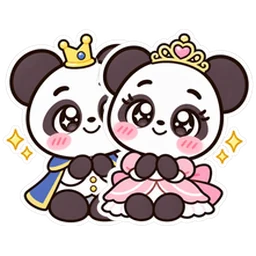
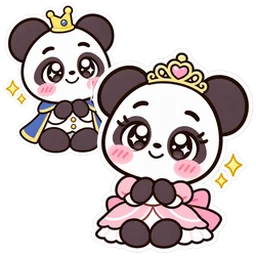
究極の二択：キャラ図鑑を作った・王子・姫の絵を姫が主役の1枚に
Claude-Session: https://claude.ai/code/session_01VNhb2hkhfox6azdXRsnDTE

diff --git a/nitaku/index.html b/nitaku/index.html
@@ -544,6 +544,34 @@ html[data-tone="f"] .tn-f,html[data-tone="s"] .tn-s{display:revert}
 .kc-tabs button[aria-selected="true"]{background:var(--tc);color:#fff;border-color:#1E1E2A}
 .kc-cards{margin-top:10px}
 .kc-save{display:block;margin:8px auto 0}
+/* キャラ図鑑 */
+.kc-zk{display:block;margin:10px auto 0}
+.zk-open{display:flex;align-items:center;gap:12px;width:100%;min-height:72px;margin:6px 0 10px;padding:8px 14px;border:2.5px solid #1E1E2A;border-radius:16px;background:#fff;box-shadow:4px 4px 0 #F2C94C;font:inherit;color:#1E1E2A;text-align:left;cursor:pointer}
+.zk-open img{flex:none;width:56px;height:56px;object-fit:contain}
+.zk-open span{flex:1;min-width:0;display:flex;flex-direction:column}
+.zk-open b{font-family:'Mochiy Pop One',sans-serif;font-weight:400;font-size:18px}
+.zk-open small{font-size:13px;color:#5A546A}
+.zk-open i{font-style:normal;font-size:26px;font-weight:900}
+.zk-h{margin:4px 0 10px}
+.zk-tabs{display:grid;grid-template-columns:1fr 1fr;gap:8px}
+.zk-tabs button{min-height:44px;border:2.5px solid #1E1E2A;border-radius:999px;background:#fff;color:#1E1E2A;font:inherit;font-weight:900;font-size:15px;white-space:nowrap}
+.zk-tabs button[aria-selected="true"]{background:#FF3D7F}
+.zk-tabs button[data-zt="normal"][aria-selected="true"]{background:#DDF5EC;color:#17634A}
+.zk-lead{margin:12px 0 0;font-size:14px;color:#5A546A}
+.zk-grid{display:grid;grid-template-columns:repeat(2,1fr);gap:10px;margin:12px 0 16px}
+@media (min-width:600px){ .zk-grid{grid-template-columns:repeat(3,1fr)} }
+.zk-c{display:flex;flex-direction:column;align-items:center;gap:3px;min-width:0;padding:10px 6px 12px;border:2px solid #1E1E2A;border-radius:14px;background:#fff;box-shadow:3px 3px 0 #F2C94C;font:inherit;color:#1E1E2A;text-align:center;cursor:pointer}
+.zk-c img{width:120px;height:120px;max-width:100%;object-fit:contain}
+.zk-c b{font-family:'Mochiy Pop One',sans-serif;font-weight:400;font-size:16px;white-space:nowrap}
+.zk-c span{font-size:13px;line-height:1.5;color:#5A546A}
+.zk-noimg{display:flex;align-items:center;justify-content:center;width:100px;height:100px;border:2.5px solid #1E1E2A;border-radius:50%;background:#FFE3EC;font-weight:900}
+.zk-dpic{display:flex;justify-content:center}
+.zk-dpic img{width:200px;height:200px;max-width:100%;object-fit:contain}
+.kc.zk-d .zk-dnm{margin:4px 0 2px;text-align:center;font-family:'Mochiy Pop One',sans-serif;font-weight:400;font-size:26px;line-height:1.3}
+.zk-dsay{text-align:center}
+.zk-kiki{margin:0;font-size:15px}
+.zk-note{margin:12px 0 0;font-size:13px;color:#5A546A}
+.zk-go{margin-top:14px}
 .kcd{max-width:380px;margin:0 auto;box-sizing:border-box;color:#1E1E2A}
 .kc-label{background:#fff;border:3px solid #1E1E2A;border-radius:6px;padding:12px 14px}
 .kc-label h3,.kc-karte h3,.kc-tsuchi h3{margin:0}
@@ -870,6 +898,7 @@ body.rdy-on #gres-body{padding-bottom:230px}
       <li><a href="/minna/">みんなで盛り上がる究極の二択 40選</a></li>
     </ul>
   </section>
+  <button type="button" class="zk-open" data-zukan="love"><span><b>キャラ図鑑</b><small>恋のキャラ・ふだんのキャラ 全20体</small></span><i aria-hidden="true">›</i></button>
   <button class="linkb" id="about-open">この診断について（％の考え方）</button>
   <!-- サイト名と作った人の表示（薄く小さく。鑑定者本人の指示 2026-11-12） -->
   <p class="credit" data-nocg>究極の二択 本音バレ診断<br>Produced by Mizuki Nico</p>
@@ -958,6 +987,12 @@ body.rdy-on #gres-body{padding-bottom:230px}
     <h3>ご注意</h3>
     <p>この診断は、心理学の考え方を参考にした遊びです。性格や相性を決めつけるものではありません。答えた内容は、みんなの回答％を数えるために「どちらを選んだか」だけを送り、名前は送りません。友だちと遊ぶときは、名前と答えが同じ部屋の人にだけ見えます。</p>
   </div>
+</section>
+
+<!-- キャラ図鑑（鑑定者本人 2026-11-16「図鑑も作って」） -->
+<section class="scr" id="s-zukan">
+  <div class="nav"><button class="navb" data-nav="back">← もどる</button><span class="navr"><button class="navb" data-nav="top">TOP</button></span></div>
+  <div id="zk-body"></div>
 </section>
 
 <!-- 部屋に参加する -->
@@ -2074,7 +2109,8 @@ function charaHTML(qs, ans, label, cls, fold, opt){
       (r.pref.length ? '<div class="kc-row"><b>好きになりやすい人</b>'+r.pref.map(pill).join('')+'</div>' : '')+
     '</div>'+
     '<div class="kc-tone"><span>言い方</span>'+[['y','やさしめ'],['f','辛口'],['s','激辛']].map(function(x){ return '<button type="button" data-tone="'+x[0]+'" aria-pressed="'+(toneGet()===x[0])+'">'+x[1]+'</button>'; }).join('')+'</div>'+
-    '<div class="kc-aru"><h4>'+esc(c.name)+'のあるある</h4><ul>'+tnList(c,0,3)+'</ul></div>';
+    '<div class="kc-aru"><h4>'+esc(c.name)+'のあるある</h4><ul>'+tnList(c,0,3)+'</ul></div>'+
+    '<button type="button" class="linkb kc-zk" data-zukan="'+MK+'">ほかのキャラも見る（キャラ図鑑）</button>';
   // 4枚のカード
   var top=kt.words.slice(0,6), hito=kt.hito.slice(0,3), hx='「'+(hito[0]||c.name)+'」';
   var A='<div class="kcd kc-label"><h3>'+(NM?'ふだんの':'恋の')+'成分表示</h3><p class="lb-nm">名称：'+esc(who)+'　　内容量：'+(NM?'1日分':'恋1回分')+'</p>'+
@@ -2180,11 +2216,50 @@ function goTop(ask){
   var st=store('nitaku_room'); if(st && !st.left){ st.left=true; store('nitaku_room', st); }
   updatePoolNote(); show('s-home'); roomResume(false);
 }
+/* ───── キャラ図鑑：恋のキャラ10・ふだんのキャラ10を並べ、押すとくわしく（鑑定者本人 2026-11-16） ───── */
+var ZK={ tab:'love', id:null, from:'s-home' };
+function openZukan(tab, id){ if(curScr()!=='s-zukan') ZK.from=curScr(); ZK.tab=tab||ZK.tab; ZK.id=id||null; renderZukan(); show('s-zukan'); }
+function zkPic(c, sz){ return CHARA_IMG[c.id] ? '<img src="'+CHARA_IMG[c.id]+'" alt="" width="'+sz+'" height="'+sz+'" loading="lazy">' : '<span class="zk-noimg">'+esc(c.name)+'</span>'; }
+function renderZukan(){
+  var NM=ZK.tab==='normal', D=NM?CHN:CH; if(!D) return;
+  var tabs='<div class="zk-tabs" role="tablist">'+[['love','恋のキャラ'],['normal','ふだんのキャラ']].map(function(x){ return '<button type="button" data-nocg data-zt="'+x[0]+'" aria-selected="'+(ZK.tab===x[0])+'">'+x[1]+'</button>'; }).join('')+'</div>';
+  var h='<h2 class="zk-h">キャラ図鑑</h2>'+tabs;
+  var c=ZK.id && D.list.filter(function(x){ return x.id===ZK.id; })[0];
+  if(c){
+    var li=function(a){ return a.map(function(s){ return '<li>'+esc(s)+'</li>'; }).join(''); };
+    h+='<div class="card kc zk-d'+(NM?' kc-n':'')+'"><div class="zk-dpic">'+zkPic(c,200)+'</div>'+
+      '<p class="zk-dnm">'+esc(c.name)+'</p><p class="kc-say zk-dsay">'+esc(c.say)+'</p><p class="kc-desc">'+esc(c.desc)+'</p>'+
+      '<div class="kc-tone"><span>言い方</span>'+[['y','やさしめ'],['f','辛口'],['s','激辛']].map(function(x){ return '<button type="button" data-tone="'+x[0]+'" aria-pressed="'+(toneGet()===x[0])+'">'+x[1]+'</button>'; }).join('')+'</div>'+
+      '<div class="kc-aru"><h4>'+esc(c.name)+'のあるある</h4><ul>'+tnList(c,0,3)+'</ul></div>'+
+      '<div class="kc-aru"><h4>よろこぶこと</h4><ul>'+li(c.yoro)+'</ul></div>'+
+      '<div class="kc-aru"><h4>こうすると、すねます</h4><ul>'+li(c.sune)+'</ul></div>'+
+      '<div class="kc-aru"><h4>相性のいいキャラ</h4><p class="zk-kiki">'+c.kiki.map(esc).join('・')+'</p></div>'+
+      '<p class="zk-note">診断書・通知表などのカードは、診断した人だけに出ます。</p>'+
+      '<button type="button" class="big zk-go" data-zgo="'+ZK.tab+'">自分のキャラを診断する<small class="bsub">'+(NM?'ふつう編':'恋愛編')+'で遊ぶ（15問・約3分）</small></button>'+
+      '<button type="button" class="linkb" data-zback>キャラ図鑑の一覧にもどる</button></div>';
+  } else {
+    h+='<p class="zk-lead">'+(NM?'ふつう編で遊ぶと、あなたの「ふだんのキャラ」がわかります。':'恋愛編・本能モードで遊ぶと、あなたの「恋のキャラ」がわかります。')+'押すと、くわしく見られます。</p>'+
+      '<div class="zk-grid">'+D.list.map(function(x){ return '<button type="button" class="zk-c" data-zid="'+x.id+'">'+zkPic(x,120)+'<b>'+esc(x.name)+'</b><span>'+esc(x.say)+'</span></button>'; }).join('')+'</div>'+
+      '<button type="button" class="big zk-go" data-zgo="'+ZK.tab+'">自分のキャラを診断する<small class="bsub">'+(NM?'ふつう編':'恋愛編')+'で遊ぶ（15問・約3分）</small></button>';
+  }
+  $('zk-body').innerHTML=h; toneApply(toneGet()); window.scrollTo(0,0);
+}
+document.addEventListener('click', function(e){
+  var t=e.target.closest && e.target.closest('[data-zukan],[data-zt],[data-zid],[data-zgo],[data-zback]'); if(!t) return;
+  if(t.hasAttribute('data-zukan')){ openZukan(t.getAttribute('data-zukan')==='normal'?'normal':'love'); return; }
+  if(t.hasAttribute('data-zt')){ ZK.tab=t.getAttribute('data-zt'); ZK.id=null; renderZukan(); return; }
+  if(t.hasAttribute('data-zid')){ ZK.id=t.getAttribute('data-zid'); renderZukan(); return; }
+  if(t.hasAttribute('data-zback')){ ZK.id=null; renderZukan(); return; }
+  if(t.hasAttribute('data-zgo')){ ZK.id=null; leaveRoom(); setMode(t.getAttribute('data-zgo')); show('s-home'); var w=$('go-solo'); if(w) setTimeout(function(){ try{ w.scrollIntoView({block:'center'}); }catch(x){} },50); }
+});
+/* #zukan で開いたとき（シェア・検索から） */
+(function(){ if(location.hash==='#zukan'){ try{ history.replaceState(null,'',location.href.split('#')[0]); }catch(e){} setTimeout(function(){ openZukan('love'); },0); } })();
 function openAbout(){ openAbout.from=curScr(); show('s-about'); }
 document.addEventListener('click', function(e){ var t=e.target.closest && e.target.closest('[data-about],#about-open'); if(t) openAbout(); });
 function goBack(){
   var c=curScr(), n=S.players.length;
   if(c==='s-about'){ show(openAbout.from||'s-home'); return; }
+  if(c==='s-zukan'){ if(ZK.id){ ZK.id=null; renderZukan(); return; } show(ZK.from||'s-home'); return; }
   if(c==='s-setup' || c==='s-join' || c==='s-post' || c==='s-review' || c==='s-res' || c==='s-gres'){ goTop(false); return; }
   if(S.room){ goTop(true); return; }
   if(S.honPlay && c==='s-q'){ goTop(true); return; }

diff --git a/CLAUDE.md b/CLAUDE.md
@@ -112,7 +112,8 @@
 - **本能モードのみんなの結果のひとこと**（鑑定者本人の指摘 2026-11-15「みんな本能で生きてるとか直感で生きてるだと全然面白くない」）：ランキングとひとりずつの本能の下の言葉は、全員同じ札（本能タイプ（直感で生きてる））をやめ、その人のデータから1人1つずつちがう言葉（`honSay`：自分の気持ちに、いちばん正直な人／最速0.6秒。自分の「好き」がはっきりしてる人／恋の問題だけ0.4秒速い／時間切れ1問。そこで本能がフリーズ／どの問題も同じペース。ブレない／1位まで、あと0.3秒 など。同じ言葉は2人に出さない。速い人は「自分の気持ち・好みをわかっている人」としてほめる言い方にする＝鑑定者本人 2026-11-15「自分の意見や意志が明確で自分を知ってるような言葉に」）。ひとりで遊んだときの札も5段階に（読む前に押してる疑惑〜3秒をぜんぶ使う慎重派）。「みんなの答え」の名前の札が二重の輪に見えていた（文節で改行するしくみが札の中に入れた span にも札の見た目が付いていた）ので、札の決まりを `.aq-n>span` にした。
 - **恋愛編の「あなたの中にあることば」**（鑑定者本人の考え 2026-11-15「称号ではなく、答えから連想される内面のワードを見せたい」「みんな自分のことも相手のことも知りたい」→見本 https://claude.ai/artifact/YHo39Rmnh9xy5LcvRDyCj7 で「この形でOK」、一覧 https://claude.ai/artifact/434K1fmW6QYqpkc5YQsdPC で「OK」）：恋愛編の161問の答え1つずつに、ことばを1〜3個とひとことワードを0〜1個付けた（`nitaku/kotoba-love.js`＝`KOTOBA_LOVE`・`KOTOBA_THEMES`〈6つのテーマ・44語〉・`KOTOBA_HITO`〈20語〉。答えの文は questions.js と同じ文で引くので、問題の文を変えたらここも直す）。結果では選んだ答えのことばを集め、よく付くことばほど軽く数え（付いた回数の平方根で割る）、反対の意味のことばは強く出たほうだけ（`KOTOBA_OPP`。「重め」と「自分の時間もほしい」「ほうっておいてほしい」も＝鑑定者本人 2026-11-15「足して」。本番の3人の部屋で見つけた「しっかり者×自由人」「さっぱり系×かまってほしい・甘えたい」「追いかけられたい×自分から話しかける」「ハプニングも楽しむ×いつものが安心」も＝鑑定者本人 2026-11-16「お願い、足して」。本能モードのひとことワードは恋愛・ふだんの両方の組み合わせで確かめ、「ふだんのあなた」からは恋愛のことばと同じ・反対の意味のことばを外す。「現実派×夢見がち」も足した）にして、テーマごとに3つまで・全部で13個まで出す（`kotobaOf`・`kotobaHTML`）。いちばん上に「ひとことで言うと」（ひとことワード3つまで。ほかのことばと同じ大きさ＝鑑定者本人「大きくなくて良い」）、その下にテーマごとの色の札（恋のはじまり方＝ピンク・してほしいこと＝青・伝え方＝オレンジ・過ごし方＝みどり・大事にしていること＝むらさき・心の奥＝グレー。札の中では改行しない）。絵文字・飾り文字・「○問から」の数・もとの答えのくり返しは出さない（鑑定者本人の指示）。ひとりの結果はいちばん上、みんなの結果は1人ずつのカード（人ごとに地の色を交互に）で、2人に共通することば・くらべは出さない（鑑定者本人「共通することばではなく個々の個性やイメージを」）。**ふつう編にも入れた**（鑑定者本人の指示 2026-11-15「ふつう編にもことばを入れて」→一覧 https://claude.ai/artifact/MG4mZaBiRdsiofFG7TFNNb で「OK」）：135問の答えにことばを付けた `nitaku/kotoba-normal.js`（`KOTOBA_NORMAL`・`KOTOBA_THEMES_N`〈ものごとの決め方・お金と時間の使い方・人とのつきあい方・好きな過ごし方・大事にしていること・心の奥にあるもの＝43語〉・`KOTOBA_HITO_N`〈20語〉）。出し方は恋愛編と同じ（`KOTOBA[mode]`・`KOTOBA_OPP[mode]`。説明の一文は「答えから見えた、あなたらしさです。」）。**本能モードにも入れた**（鑑定者本人の指示 2026-11-16「本能モードの結果に入れて」→一覧 https://claude.ai/artifact/8qMvgUArmgowTXjnKj9C5A で「OK」）：223問の答えにことばを付けた `nitaku/kotoba-hon.js`（`KOTOBA_HON.love`＝恋愛編のことば・`KOTOBA_HON.normal`＝ふつう編のことば。新しいことばは作らない）。結果は1つのカードで、恋愛の問題のことばを恋愛編のテーマごとに、ふつうの問題のことばを「ふだんのあなた」の1行（茶色の札・5個まで）に出す（`kotobaHonHTML`・`KOTOBA.honL`・`KOTOBA.honN`）。説明の一文は「考える前に選んだ答えから見えた、あなたの本音です。」。1秒以内に選んだ答えは2倍に数え、時間切れは数えない。ひとりの結果はいちばん上、みんなの結果は1人ずつのカード。テーマのことばと同じことば（負けずぎらい・現実派など、ひとことワードとテーマの両方にあることば）は「ひとことで言うと」に出さない（本番で同じことばが2回出ていたため 2026-11-16。恋愛編・ふつう編も同じ）。
 - **両面あることば**（鑑定者本人の指示 2026-11-16「両面ある　のような言葉があってもいいかも」→見本 https://claude.ai/artifact/86bdkuYthfbBqjLs58R32W で「①も②も入れて」）：反対の意味の組み合わせ（`KOTOBA_OPP`）の両方が2問以上で出て、弱いほうが強いほうの半分以上なら、片方を捨てずに「両面あるところ」の欄に2色の札（ピンク｜青）と一文で出す（「しっかり者｜甘えんぼう」＝しっかり者なのに、好きな人には甘えんぼう。1人2つまで。文は `KOTOBA_BOTH`＝恋愛37・ふつう40。`kotobaBothHTML`）。両面の札のことばは、ほかの札・ひとことワードに出さず、食いちがうことばも出さない。恋愛編・ふつう編・本能モードのひとり・みんなの結果すべて。出る割合は恋愛約3割・ふつう約2割・本能約4割。
-- **恋のキャラと結果カード**（鑑定者本人の指示 2026-11-16「小悪魔　天使　とか　赤ちゃんとか」「キャラ名も出してOK」「マージ、ぜんぶおすすめで」「A・C・E・F全部、辛口は切りかえボタンで」。見本 https://claude.ai/artifact/86bdkuYthfbBqjLs58R32W ・ 問題とキャラ https://claude.ai/artifact/AzRHPFe2CYFhdRjcNVsJAU ・ カード https://claude.ai/artifact/SMYs13WcCKMXUWXxp8CgJK）：恋愛編のひとり・みんなの結果に「○○の恋のキャラ」を出す（`nitaku/chara-love.js`＝`CHARA_LOVE`・`charaOf`・`charaHTML`）。キャラは10＝小悪魔（駆け引きを楽しむ）・天使・赤ちゃん・王子・姫・恋する乙女・クール系（前の案の「キリリ」）・しっかり者・柔軟派・自由人・ハンター。決め方は、答えのことば（kotoba-love.js）と4つの％と、キャラがわかる問題の印（`CHARA_LOVE.q`。答えの文で引く）を足した点のいちばん高いキャラ（でたらめに答えた1500人でどのキャラも約7〜14%になるよう `b` で調整）。2番目が近ければ「もう1つの顔」、「動物でいうと」（犬系・猫系・小動物系・ふわふわ系）の1行、キャラがわかる問題に答えていれば「好きになりやすい人」（年上／年下・かわいい系／かっこいい系）。その下に「言い方：やさしめ／辛口／激辛」の切りかえ（`nitaku_tone`。最初はやさしめ。`html[data-tone]` で文を出し分ける）、「○○のあるある」3つ、「恋のカード」4枚のタブ＝診断書（恋の病名・症状・原因・処方・医師より）・通知表（駆け引き・甘え上手・ロマン・ドキドキ好き・素直さ・連絡のマメさを5段階＋先生のひとこと）・成分表示（4つの％・うち○○・原材料名・注意）・取扱説明書（よろこぶこと・すねます・注意・相性のいい機種）。「このカードを画像で保存」。みんなの結果では人ごとのカードの中にたたむ。あるある・症状・注意は同じ文を2回出さない（`tone`・`sym`・`chui` を別の文にした）。文は全部こちらの言葉（ほかの診断の文は写さない。鑑定者本人が見せた MBTI・恋愛免許証の画像は形の参考だけ）。**キャラの絵**（鑑定者本人が ChatGPT で作るパンダのキャラ。2026-11-16 に小悪魔・天使・赤ちゃん・恋する乙女・クール系・しっかり者・柔軟派・自由人・ハンター〈ハートの弓矢＝ふつう編の冒険家と見た目をかぶらせない〉・王子・姫〈1つのキャラのまま2人を少し重ねて並べた1枚＝鑑定者本人 2026-11-16「二つ並べて一つのキャラで良い」〉）：絵がある分だけ、キャラの名前の上に出す（104px・名前はその下の札。`CHARA_IMG`＝キャラのid→`img/chara-<id>.webp`〈256px・透明な背景〉）。絵がないキャラは今までどおり名前の丸。診断書のはんこは「恋のクリニック」（ふつう編は「ふだんのクリニック」。前の「病院」はやめた＝鑑定者本人 2026-11-16）。カードのタブは色分け（診断書＝赤・通知表＝みどり・成分表示＝ピンク・取扱説明書＝青。選んでいるタブはその色でぬる。`data-nocg`。鑑定者本人 2026-11-16「ボタンの色分けしたい」）。パスポート・相性証明書の案はやめた（鑑定者本人 2026-11-16「Ｂはなし」「Ｄも不要」）。**キャラがわかる問題を33問足した**（恋愛編のイージー。鑑定者本人の直し：声の高さ→「じっと見つめられたら？照れて目をそらす／じっと見つめ返す」・「半日だけ別行動の時間がほしい」・「くわしく返す／ひとことだけ返す」・「好きな人にほめられたら？『ありがとう』と照れる／『あなたも素敵だよ』と返す」を足した）。今の「年上の恋人／年下の恋人」は「頼れる年上に、甘やかされる／かわいい年下に、頼られる」に入れかえた＝恋愛編193問（このあとハードに4問足して197問）。点検は幅360・390・430で、10キャラ×動物×言い方3つ×カード4枚の泣き別れ・はみ出し0。**本能モードにも出す**（鑑定者本人 2026-11-16「両方の見本を作って」→見本 https://claude.ai/artifact/TAcnLCZP5ZHPV1Z7mhGh36 で「おすすめで」＝A 恋のキャラだけ）：本能モードのひとり・みんなの結果のいちばん上に「○○の本能の恋のキャラ」と「考える前に選んだ恋の答えから決めました」。恋の問題（14問）のことば（`KOTOBA.honL`）から決め、1秒以内に選んだ答えは2倍・時間切れは数えない（`charaOf(qs,ans,{hon:true,times})`）。本能モードの問題には％の点がないので、成分表示・通知表の％は、ことばの数から出す（キャラの決め方には使わない）。出やすさは `CHARA_LOVE.honB` で本能モード用に調整（でたらめに答えた1500人でどのキャラも約7〜13%）。ふだんのキャラ（案B）は出さない。**どの難しさで遊んでも同じくらい決まるように**（鑑定者本人 2026-11-16「イージーだけなの？」「みんなハード選ぶ人が多い」「モード何系なしが良い」）：キャラがわかる問題の印（`CHARA_LOVE.q`）を、イージーの33問だけでなく、ノーマル・ハードの今ある問題にも付けた（108問ぶん。1回15問で答えに出る印は、どの難しさでも約6問）。でたらめに答えた1000人で、イージー・ノーマル・ハードどれもキャラが約5〜17%ずつ。ハードにも「好きになりやすい人」がわかる問題を4問足した（鑑定者本人 2026-11-16「ハードにも足してマージ」：10歳年上で頼れる・口うるさい／10歳年下でかわいい・頼りない、見た目かっこいい・中身子どもっぽい／見た目かわいい・中身クールで冷たい、年上に一生子ども扱いされる／年下を一生世話し続ける、とびきりかわいい・いつも守ってあげないといけない／とびきりかっこいい・いつも置いて先に行く）＝恋愛編197問（このあと鑑定者本人が考えた5問を足して202問：いつも家まで迎えに来てくれる人／待ち合わせ場所で合流する人・バイバイがあっさりな人／時間がかかる人・映画館で見るデート／部屋で見るデート〈以上イージー〉・付き合って半年で結婚。でも、まだ知らないところだらけ／5年付き合ってから結婚。でも、ときめきは少なめ・東京の小さい部屋／地方の広い部屋〈以上ノーマル〉。鑑定者本人 2026-11-16「追加したい」「④⑤は恋愛編に足して」。本能モードの「結婚は早め／ゆっくり」「駅で待ち合わせ／家まで迎えに行く」「映画館で見る／家で見る」・ふつう編の「都会のせまい部屋／田舎の広い家」と同じテーマだが、今ある問題は外していない）。「好きになりやすい人」が出る割合は、イージー約3割・ノーマル約5割・ハード約4割。
+- **恋のキャラと結果カード**（鑑定者本人の指示 2026-11-16「小悪魔　天使　とか　赤ちゃんとか」「キャラ名も出してOK」「マージ、ぜんぶおすすめで」「A・C・E・F全部、辛口は切りかえボタンで」。見本 https://claude.ai/artifact/86bdkuYthfbBqjLs58R32W ・ 問題とキャラ https://claude.ai/artifact/AzRHPFe2CYFhdRjcNVsJAU ・ カード https://claude.ai/artifact/SMYs13WcCKMXUWXxp8CgJK）：恋愛編のひとり・みんなの結果に「○○の恋のキャラ」を出す（`nitaku/chara-love.js`＝`CHARA_LOVE`・`charaOf`・`charaHTML`）。キャラは10＝小悪魔（駆け引きを楽しむ）・天使・赤ちゃん・王子・姫・恋する乙女・クール系（前の案の「キリリ」）・しっかり者・柔軟派・自由人・ハンター。決め方は、答えのことば（kotoba-love.js）と4つの％と、キャラがわかる問題の印（`CHARA_LOVE.q`。答えの文で引く）を足した点のいちばん高いキャラ（でたらめに答えた1500人でどのキャラも約7〜14%になるよう `b` で調整）。2番目が近ければ「もう1つの顔」、「動物でいうと」（犬系・猫系・小動物系・ふわふわ系）の1行、キャラがわかる問題に答えていれば「好きになりやすい人」（年上／年下・かわいい系／かっこいい系）。その下に「言い方：やさしめ／辛口／激辛」の切りかえ（`nitaku_tone`。最初はやさしめ。`html[data-tone]` で文を出し分ける）、「○○のあるある」3つ、「恋のカード」4枚のタブ＝診断書（恋の病名・症状・原因・処方・医師より）・通知表（駆け引き・甘え上手・ロマン・ドキドキ好き・素直さ・連絡のマメさを5段階＋先生のひとこと）・成分表示（4つの％・うち○○・原材料名・注意）・取扱説明書（よろこぶこと・すねます・注意・相性のいい機種）。「このカードを画像で保存」。みんなの結果では人ごとのカードの中にたたむ。あるある・症状・注意は同じ文を2回出さない（`tone`・`sym`・`chui` を別の文にした）。文は全部こちらの言葉（ほかの診断の文は写さない。鑑定者本人が見せた MBTI・恋愛免許証の画像は形の参考だけ）。**キャラの絵**（鑑定者本人が ChatGPT で作るパンダのキャラ。2026-11-16 に小悪魔・天使・赤ちゃん・恋する乙女・クール系・しっかり者・柔軟派・自由人・ハンター〈ハートの弓矢＝ふつう編の冒険家と見た目をかぶらせない〉・王子・姫〈1つのキャラのまま、姫を大きく前・王子を左うしろに重ねた1枚＝鑑定者本人 2026-11-16「二つ並べて一つのキャラで良い」→見本 https://claude.ai/artifact/3DFmdvjXHUX4AymA4Ub7An で「A-2」〉）：絵がある分だけ、キャラの名前の上に出す（104px・名前はその下の札。`CHARA_IMG`＝キャラのid→`img/chara-<id>.webp`〈256px・透明な背景〉）。絵がないキャラは今までどおり名前の丸。診断書のはんこは「恋のクリニック」（ふつう編は「ふだんのクリニック」。前の「病院」はやめた＝鑑定者本人 2026-11-16）。カードのタブは色分け（診断書＝赤・通知表＝みどり・成分表示＝ピンク・取扱説明書＝青。選んでいるタブはその色でぬる。`data-nocg`。鑑定者本人 2026-11-16「ボタンの色分けしたい」）。パスポート・相性証明書の案はやめた（鑑定者本人 2026-11-16「Ｂはなし」「Ｄも不要」）。**キャラがわかる問題を33問足した**（恋愛編のイージー。鑑定者本人の直し：声の高さ→「じっと見つめられたら？照れて目をそらす／じっと見つめ返す」・「半日だけ別行動の時間がほしい」・「くわしく返す／ひとことだけ返す」・「好きな人にほめられたら？『ありがとう』と照れる／『あなたも素敵だよ』と返す」を足した）。今の「年上の恋人／年下の恋人」は「頼れる年上に、甘やかされる／かわいい年下に、頼られる」に入れかえた＝恋愛編193問（このあとハードに4問足して197問）。点検は幅360・390・430で、10キャラ×動物×言い方3つ×カード4枚の泣き別れ・はみ出し0。**本能モードにも出す**（鑑定者本人 2026-11-16「両方の見本を作って」→見本 https://claude.ai/artifact/TAcnLCZP5ZHPV1Z7mhGh36 で「おすすめで」＝A 恋のキャラだけ）：本能モードのひとり・みんなの結果のいちばん上に「○○の本能の恋のキャラ」と「考える前に選んだ恋の答えから決めました」。恋の問題（14問）のことば（`KOTOBA.honL`）から決め、1秒以内に選んだ答えは2倍・時間切れは数えない（`charaOf(qs,ans,{hon:true,times})`）。本能モードの問題には％の点がないので、成分表示・通知表の％は、ことばの数から出す（キャラの決め方には使わない）。出やすさは `CHARA_LOVE.honB` で本能モード用に調整（でたらめに答えた1500人でどのキャラも約7〜13%）。ふだんのキャラ（案B）は出さない。**どの難しさで遊んでも同じくらい決まるように**（鑑定者本人 2026-11-16「イージーだけなの？」「みんなハード選ぶ人が多い」「モード何系なしが良い」）：キャラがわかる問題の印（`CHARA_LOVE.q`）を、イージーの33問だけでなく、ノーマル・ハードの今ある問題にも付けた（108問ぶん。1回15問で答えに出る印は、どの難しさでも約6問）。でたらめに答えた1000人で、イージー・ノーマル・ハードどれもキャラが約5〜17%ずつ。ハードにも「好きになりやすい人」がわかる問題を4問足した（鑑定者本人 2026-11-16「ハードにも足してマージ」：10歳年上で頼れる・口うるさい／10歳年下でかわいい・頼りない、見た目かっこいい・中身子どもっぽい／見た目かわいい・中身クールで冷たい、年上に一生子ども扱いされる／年下を一生世話し続ける、とびきりかわいい・いつも守ってあげないといけない／とびきりかっこいい・いつも置いて先に行く）＝恋愛編197問（このあと鑑定者本人が考えた5問を足して202問：いつも家まで迎えに来てくれる人／待ち合わせ場所で合流する人・バイバイがあっさりな人／時間がかかる人・映画館で見るデート／部屋で見るデート〈以上イージー〉・付き合って半年で結婚。でも、まだ知らないところだらけ／5年付き合ってから結婚。でも、ときめきは少なめ・東京の小さい部屋／地方の広い部屋〈以上ノーマル〉。鑑定者本人 2026-11-16「追加したい」「④⑤は恋愛編に足して」。本能モードの「結婚は早め／ゆっくり」「駅で待ち合わせ／家まで迎えに行く」「映画館で見る／家で見る」・ふつう編の「都会のせまい部屋／田舎の広い家」と同じテーマだが、今ある問題は外していない）。「好きになりやすい人」が出る割合は、イージー約3割・ノーマル約5割・ハード約4割。
+- **キャラ図鑑**（鑑定者本人 2026-11-16「図鑑も作って」。見本 https://claude.ai/artifact/3DFmdvjXHUX4AymA4Ub7An）：画面 `#s-zukan`（`openZukan`・`renderZukan`・`ZK`。アドレスの後ろに `#zukan` を付けて開いても出る）。上に「恋のキャラ／ふだんのキャラ」の切りかえ、2列（幅600px以上は3列）に絵・名前・ひとこと。押すとくわしく（大きな絵・名前・ひとこと・説明・言い方の切りかえ・あるある・よろこぶこと・すねること・相性のいいキャラ・「診断書などのカードは診断した人だけ」）と「自分のキャラを診断する」（その編を選んでトップへ）。入口はトップの「この診断について」の上の白いカード「キャラ図鑑」（パンダの絵は入れない＝トップはパンダが多いため）と、結果のキャラのカードの「ほかのキャラも見る（キャラ図鑑）」。「もどる」はくわしく→一覧→もとの画面。幅360・390・430で、20キャラ×言い方3つの泣き別れ・はみ出し・44px未満のボタン0。
 - **ふつう編の「ふだんのキャラ」**（鑑定者本人 2026-11-16「おすすめでお願い」→文の一覧 https://claude.ai/artifact/DyZTkmCgoYsNyA9pUfE35b で「ふつう編のキャラ、OKで入れて」）：ふつう編のひとり・みんなの結果に「○○のふだんのキャラ」（`nitaku/chara-normal.js`＝`CHARA_NORMAL`。`charaOf`・`charaHTML` に `{mode:'normal'}`）。キャラは10＝冒険家・慎重派・ムードメーカー・マイペース・こだわり職人・ほどほど名人・キラキラ演出家・ありのまま派・段取り名人・のんびり屋。ふつう編のことば（kotoba-normal.js）と4つの％（冒険・欲ばり・見栄・ノリ）から決める（でたらめに答えた1000人で、イージー・ノーマルはどのキャラも約6〜14%、ハードは約4〜16%）。形は恋のキャラと同じ（もう1つの顔・言い方の切りかえ・あるある・カード4枚＝診断書・ふだんの通知表〈冒険・ノリ・欲ばり・見栄・決断力・計画性〉・ふだんの成分表示・取扱説明書）。絵は恋のキャラと同じしくみ（CHARA_IMG）で、できた分から入れる（2026-11-16 に冒険家・慎重派・ムードメーカー・マイペース・こだわり職人・ほどほど名人・キラキラ演出家・ありのまま派・段取り名人・のんびり屋＝10体すべて）。動物・好きになりやすい人は出さない。色はみどり（`.kc-n`）。
 - **見やすさの点検**（鑑定者本人の質問 2026-11-12「今のサイトが一番見やすい状態か」）：主な画面で、文字と背景の差・文字の大きさ・押すところの大きさを機械で測った。人気の二択の一覧のクラス名 `.pop` が題名用の飾り文字（Mochiy Pop One）の決まりと重なっていたので `.popq` にした（本文の文字に戻った）。説明の小さな文字（12px以下）は13px以上に、「VS」の札は少し濃く（#9C1445）。言葉のちらし（12px）は飾りなのでそのまま。題名のピンクは見えやすさの安全装置で少し濃く（#CA3E6F）出ている。
 - **色はD（ビビッド）・VSは白い札**（鑑定者本人の選択 2026-11-13「左の白いVSとDでお願いします」）：クリーム色の点々の地（#FFF8E1）・黒に近い線と文字（#1E1E2A）・黄色の影（#F2C94C）・あざやかなピンク（#FF3D7F）。答えのカードは恋愛＝ピンク／水色、ふつう＝黄／ミント。問題の画面のVSは、白地に黒い線の札を少し傾けたもの（前のピンクの丸はやめた）。アイコンとシェアの画像も同じ色にそろえた（鑑定者本人の指示 2026-11-13「アプリのアイコンと画像も揃えてください」。題名のピンクはサイトに出ている色 #CC3166、シェア画像のVSは白い札。LINE・Xが前の画像を覚えているので、`og:image`・アイコンのアドレスの後ろに `?v=2` を付けた。次に作り直すときは数字を1つ上げる）。下の「パステル・ステッカー」の行は前の色の記録。
